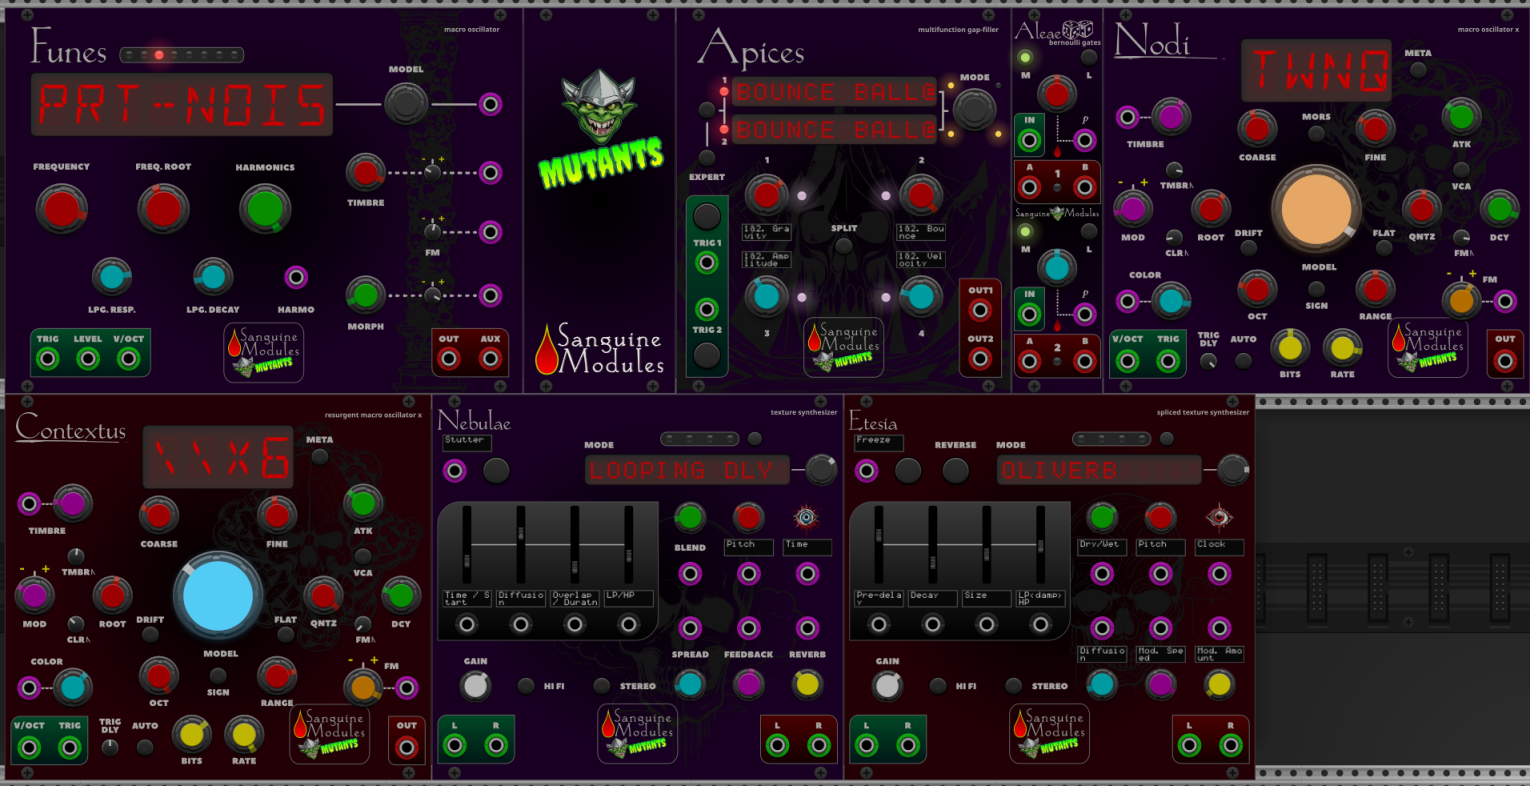
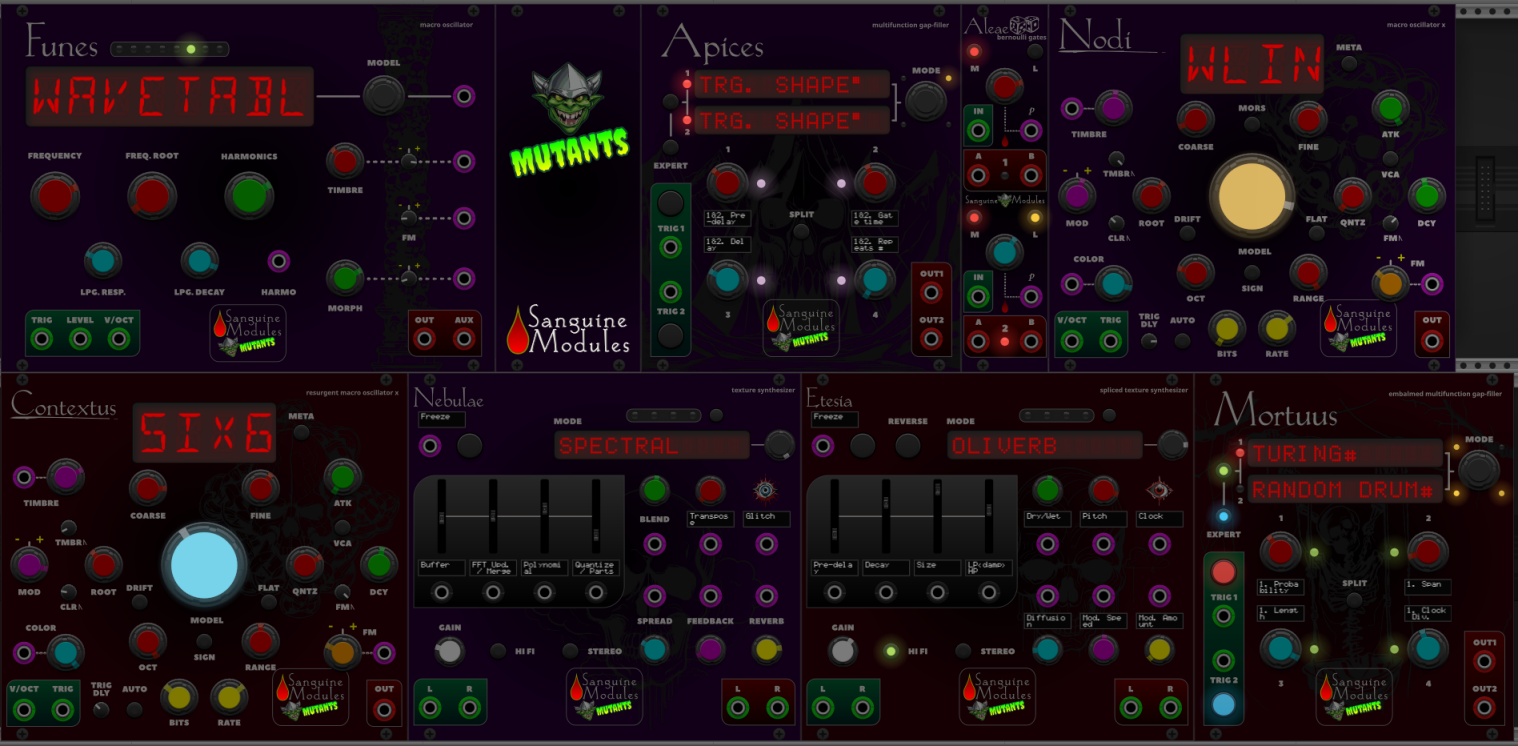
Update: plugin info and family pic.

diff --git a/CHANGELOG.md b/CHANGELOG.md
@@ -30,3 +30,27 @@
 - Prettify manual.
 
 - Misc. small fixes and changes.
+
+### 2.3.0
+
+- Move manuals to their own repository.
+
+- Add Nodi: based on MI's Braids.
+
+- Add Contextus: based on the Renaissance firmware for Braids.
+
+- Add Nebulae: based on Clouds and Southpole's Smoke, inspired by the Monsoon variant.
+
+- Add Etesia: based on the Clouds Parasite firmware.
+
+- Add Mortuus: based on the Dead Man's Catch firmware for Peaks.
+
+- Make Clouds based modules lights behave a little closer to their hardware counterparts.
+
+- Fix: SVG light behavior.
+
+- Change: Apices buttons (for the last time).
+
+- Fix: Apices button lights.
+
+- Fix: Apices trigger detection.

diff --git a/README.md b/README.md
@@ -29,3 +29,15 @@ Based on Mutable Instruments Braids and Southpole's CornrowsX. Exposes every con
 ## Contextus
 
 Based on the Renaissance alternative firmware for Braids. Exposes every control.
+
+## Nebulae
+
+Based on Mutable Instruments' Clouds and Southpole's Smoke; inspired by the Monsoon hardware variant. Exposes every control. Lights behave closer to hardware version.
+
+## Etesia
+
+Based on the Parasite firmware for Clouds and Southpole's Smoke Parasite. Exposes every control.
+
+## Mortuus
+
+Based on the Dead Man's Catch firmware for Peaks.
